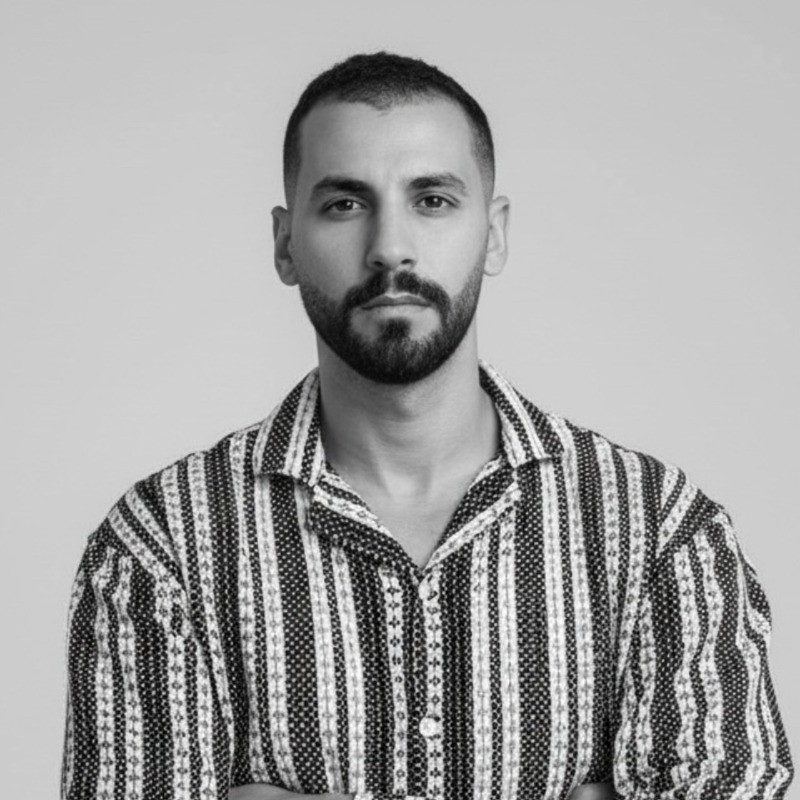
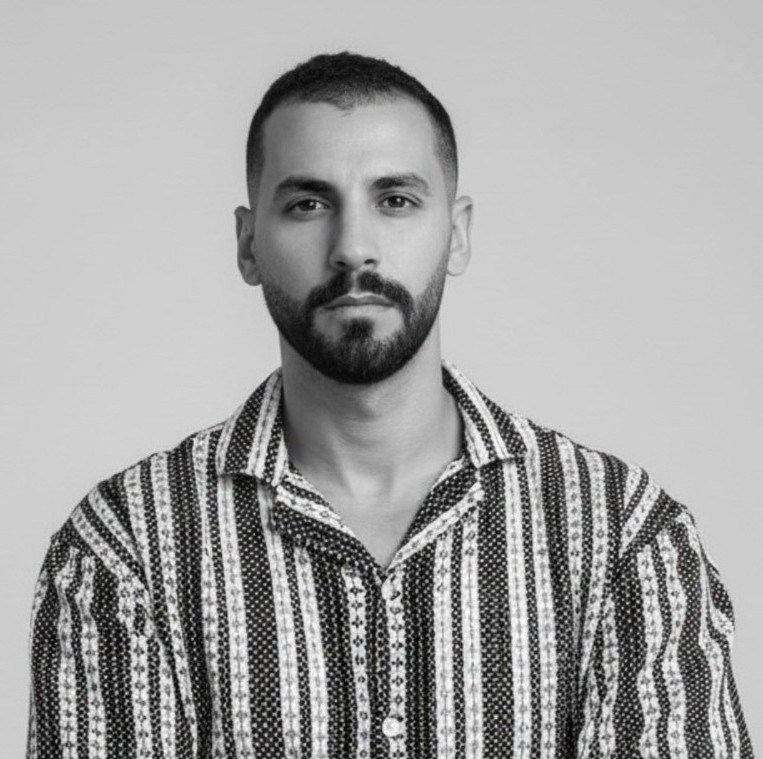
new chnages and new project

diff --git a/.nuxt/components.d.ts b/.nuxt/components.d.ts
@@ -18,6 +18,7 @@ declare module 'vue' {
     'DarkHomeTestimonials': typeof import("../components/dark/home/Testimonials.vue")['default']
     'DarkWorksPortfolio': typeof import("../components/dark/works/Portfolio.vue")['default']
     'DarkWorksSingleProjectDiabetesProj': typeof import("../components/dark/works/single-project/diabetes-proj.vue")['default']
+    'DarkWorksSingleProjectElarabyProj': typeof import("../components/dark/works/single-project/elaraby-proj.vue")['default']
     'DarkWorksSingleProjectEllamartProj': typeof import("../components/dark/works/single-project/ellamart-proj.vue")['default']
     'DarkWorksSingleProjectMetaProj': typeof import("../components/dark/works/single-project/meta-proj.vue")['default']
     'DarkWorksSingleProjectMwmProj': typeof import("../components/dark/works/single-project/mwm-proj.vue")['default']
@@ -59,6 +60,7 @@ declare module 'vue' {
     'LazyDarkHomeTestimonials': typeof import("../components/dark/home/Testimonials.vue")['default']
     'LazyDarkWorksPortfolio': typeof import("../components/dark/works/Portfolio.vue")['default']
     'LazyDarkWorksSingleProjectDiabetesProj': typeof import("../components/dark/works/single-project/diabetes-proj.vue")['default']
+    'LazyDarkWorksSingleProjectElarabyProj': typeof import("../components/dark/works/single-project/elaraby-proj.vue")['default']
     'LazyDarkWorksSingleProjectEllamartProj': typeof import("../components/dark/works/single-project/ellamart-proj.vue")['default']
     'LazyDarkWorksSingleProjectMetaProj': typeof import("../components/dark/works/single-project/meta-proj.vue")['default']
     'LazyDarkWorksSingleProjectMwmProj': typeof import("../components/dark/works/single-project/mwm-proj.vue")['default']
@@ -103,6 +105,7 @@ export const DarkHomeSkills: typeof import("../components/dark/home/Skills.vue")
 export const DarkHomeTestimonials: typeof import("../components/dark/home/Testimonials.vue")['default']
 export const DarkWorksPortfolio: typeof import("../components/dark/works/Portfolio.vue")['default']
 export const DarkWorksSingleProjectDiabetesProj: typeof import("../components/dark/works/single-project/diabetes-proj.vue")['default']
+export const DarkWorksSingleProjectElarabyProj: typeof import("../components/dark/works/single-project/elaraby-proj.vue")['default']
 export const DarkWorksSingleProjectEllamartProj: typeof import("../components/dark/works/single-project/ellamart-proj.vue")['default']
 export const DarkWorksSingleProjectMetaProj: typeof import("../components/dark/works/single-project/meta-proj.vue")['default']
 export const DarkWorksSingleProjectMwmProj: typeof import("../components/dark/works/single-project/mwm-proj.vue")['default']
@@ -144,6 +147,7 @@ export const LazyDarkHomeSkills: typeof import("../components/dark/home/Skills.v
 export const LazyDarkHomeTestimonials: typeof import("../components/dark/home/Testimonials.vue")['default']
 export const LazyDarkWorksPortfolio: typeof import("../components/dark/works/Portfolio.vue")['default']
 export const LazyDarkWorksSingleProjectDiabetesProj: typeof import("../components/dark/works/single-project/diabetes-proj.vue")['default']
+export const LazyDarkWorksSingleProjectElarabyProj: typeof import("../components/dark/works/single-project/elaraby-proj.vue")['default']
 export const LazyDarkWorksSingleProjectEllamartProj: typeof import("../components/dark/works/single-project/ellamart-proj.vue")['default']
 export const LazyDarkWorksSingleProjectMetaProj: typeof import("../components/dark/works/single-project/meta-proj.vue")['default']
 export const LazyDarkWorksSingleProjectMwmProj: typeof import("../components/dark/works/single-project/mwm-proj.vue")['default']

diff --git a/components/dark/works/single-project/elaraby-proj.vue b/components/dark/works/single-project/elaraby-proj.vue
@@ -1,0 +1,69 @@
+<template>
+  <section class="sec-box project section-padding radius-15">
+    <div class="row justify-content-center">
+      <div class="col-lg-11">
+        <div class="img mb-80">
+          <img
+            src="/assets/imgs/works/elaraby/elaraby-hospital-02.jpg"
+            alt="El-Araby Hospital"
+            class="radius-5"
+          />
+        </div>
+        <div class="row justify-content-center">
+          <div class="col-lg-7">
+            <div class="cont md-mb50">
+              <h3 class="mb-15 fw-500">El-Araby Hospital</h3>
+              <p>
+                Official portal and medical platform for El-Araby Hospital, one of the largest accredited medical facilities in the Delta region, delivering integrated healthcare services across multiple specialties.
+              </p>
+              <ul class="rest list-arrow mt-50">
+                <li>
+                  <h6 class="inline fz-18">Modern and Clean Medical UI / UX.</h6>
+                </li>
+                <li class="mt-20">
+                  <h6 class="inline fz-18">100% Fully Responsive Layout.</h6>
+                </li>
+                <li class="mt-20">
+                  <h6 class="inline fz-18">Medical Services, Doctors & Insurance Partners Integration.</h6>
+                </li>
+              </ul>
+            </div>
+          </div>
+          <div class="col-lg-4">
+            <div class="info sub-bg" id="sticky_item">
+              <ul>
+                <li class="mb-30">
+                  <span class="sub-title">Categories :</span>
+                  <p>Hospital / Healthcare Website</p>
+                </li>
+                <li class="mb-30">
+                  <span class="sub-title">Client :</span>
+                  <p>El-Araby Hospital</p>
+                </li>
+                <li>
+                  <span class="sub-title">Website :</span>
+                  <a href="https://www.elarabyhospital.com/" target="_blank">
+                    https://www.elarabyhospital.com/
+                  </a>
+                </li>
+              </ul>
+            </div>
+          </div>
+        </div>
+      </div>
+    </div>
+    <div class="imgs mt-80">
+      <div class="row justify-content-center">
+        <div class="col-lg-11">
+          <div class="row md-marg">
+            <div class="col-md-12">
+              <div class="img">
+                <img src="/assets/imgs/works/elaraby/elaraby-hospital-01.jpg" alt="Insurance Partners" />
+              </div>
+            </div>
+          </div>
+        </div>
+      </div>
+    </div>
+  </section>
+</template>

diff --git a/pages/single-project-elaraby.vue b/pages/single-project-elaraby.vue
@@ -1,0 +1,29 @@
+<template>
+  <div>
+    <Lines />
+    <CommonLoader />
+    <ContactUs />
+    <CommonProgressScroll />
+    <CommonCursor />
+    <Nav />
+    <main class="container">
+      <Project />
+    </main>
+    <Footer />
+  </div>
+</template>
+
+<script setup>
+import Lines from "@/components/Common/Lines.vue";
+import Footer from "~/components/dark/home/Footer.vue";
+import ContactUs from "~/components/dark/home/ContactUs.vue";
+import Nav from "~/components/dark/home/Nav.vue";
+import Project from "@/components/dark/works/single-project/elaraby-proj.vue";
+useHead({
+  link: [
+    { rel: "shortcut icon", href: "/assets/imgs/favicon.ico" },
+    { rel: "stylesheet", href: "/assets/css/plugins.css" },
+    { rel: "stylesheet", href: "/assets/css/style.css" },
+  ],
+});
+</script>

diff --git a/components/dark/home/Profile.vue b/components/dark/home/Profile.vue
@@ -77,7 +77,7 @@
           <div class="d-flex align-items-center">
             <div class="mr-40">
               <div class="d-flex align-items-center">
-                <h2>+4</h2>
+                <h2>+5</h2>
                 <p>
                   Years <br />
                   of Experience
@@ -86,7 +86,7 @@
             </div>
             <div class="mr-40">
               <div class="d-flex align-items-center">
-                <h2>+25</h2>
+                <h2>+30</h2>
                 <p>
                   Clients <br />
                   Worldwide
